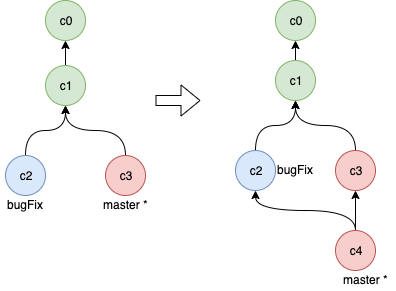
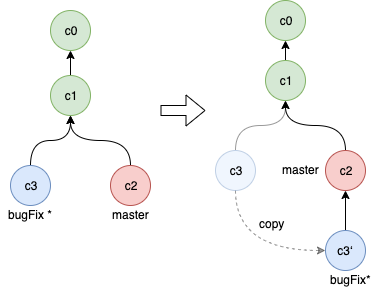
Update(auto commit)

diff --git a/_posts/2011-02-10-Git-Internal.md b/_posts/2011-02-10-Git-Internal.md
@@ -1,8 +1,8 @@
 ---
 updated: '2019-01-09'
 layout: post
-title: 理解Git的相关概念
-list_title: 理解Git理解Git的相关概念 | Understand Git Concept
+title: 理解Git中的重要概念
+list_title: 理解Git中的重要概念 | Understand Git Concept
 categories: [Git]
 ---
 
@@ -102,10 +102,30 @@ commit 70726c576c87a55c333c7c6050c5f37a574d3e1c (HEAD -> bugFix, master)
 
 ### Rebase
 
-虽然Git默认的模式是Merge，但是也支持使用Rebase模式。所谓Rebase是指不创建新的分支，当有新的改动时，我们为其生成一个新的commit，通过改变commit的位置将其纳入到当前分支中。Rebase的有点在于所有log历史是线性的，没有多条分支合并的情况；同时Rebase也不会产生Merge模式的commit节点
+虽然Git默认的模式是Merge，但是也支持使用Rebase模式。所谓Rebase是指不创建新的分支，当有新的改动时，我们为其生成一个新的commit，通过改变commit的位置将其纳入到当前分支中。Rebase的优点在于所有commit是线性排列的，log上看没有多条分支合并的情况；同时Rebase也不会产生Merge模式的commit节点，即每个commit都只有一个或者零个parent
 
+还是生面的例子，加入我们现在在bufFix上生成一个commit `c3`，现在我们想让它rebase到master上，我们可以执行
 
+```shell
+> git rebase master
+```
+如下图所示
 
+<img src="{{site.baseurl}}/assets/images/2011/02/git-commits-rebase.png" class="md-img-center">
+
+我们看到c3被rebase到了master，但是这个c3并不是当前bugFix分支上的c3，而是它的一个copy。
+
+而此时bugFix也变成了一个线性的，里面含有master的commits。如果master上的代码和bugFix有冲突，则此时需要解决合并的冲突。
+
+此时我们将分支切回master，并执行
+
+```shell
+> git rebase bugFix
+```
+
+如下图所示，来自bugFix分支的c3成了当前master的最新节点，被rebase到了最前面
+
+<img src="{{site.baseurl}}/assets/images/2011/02/git-commits-rebase-2.png" class="md-img-center">
 
 ### `.git`目录
 
